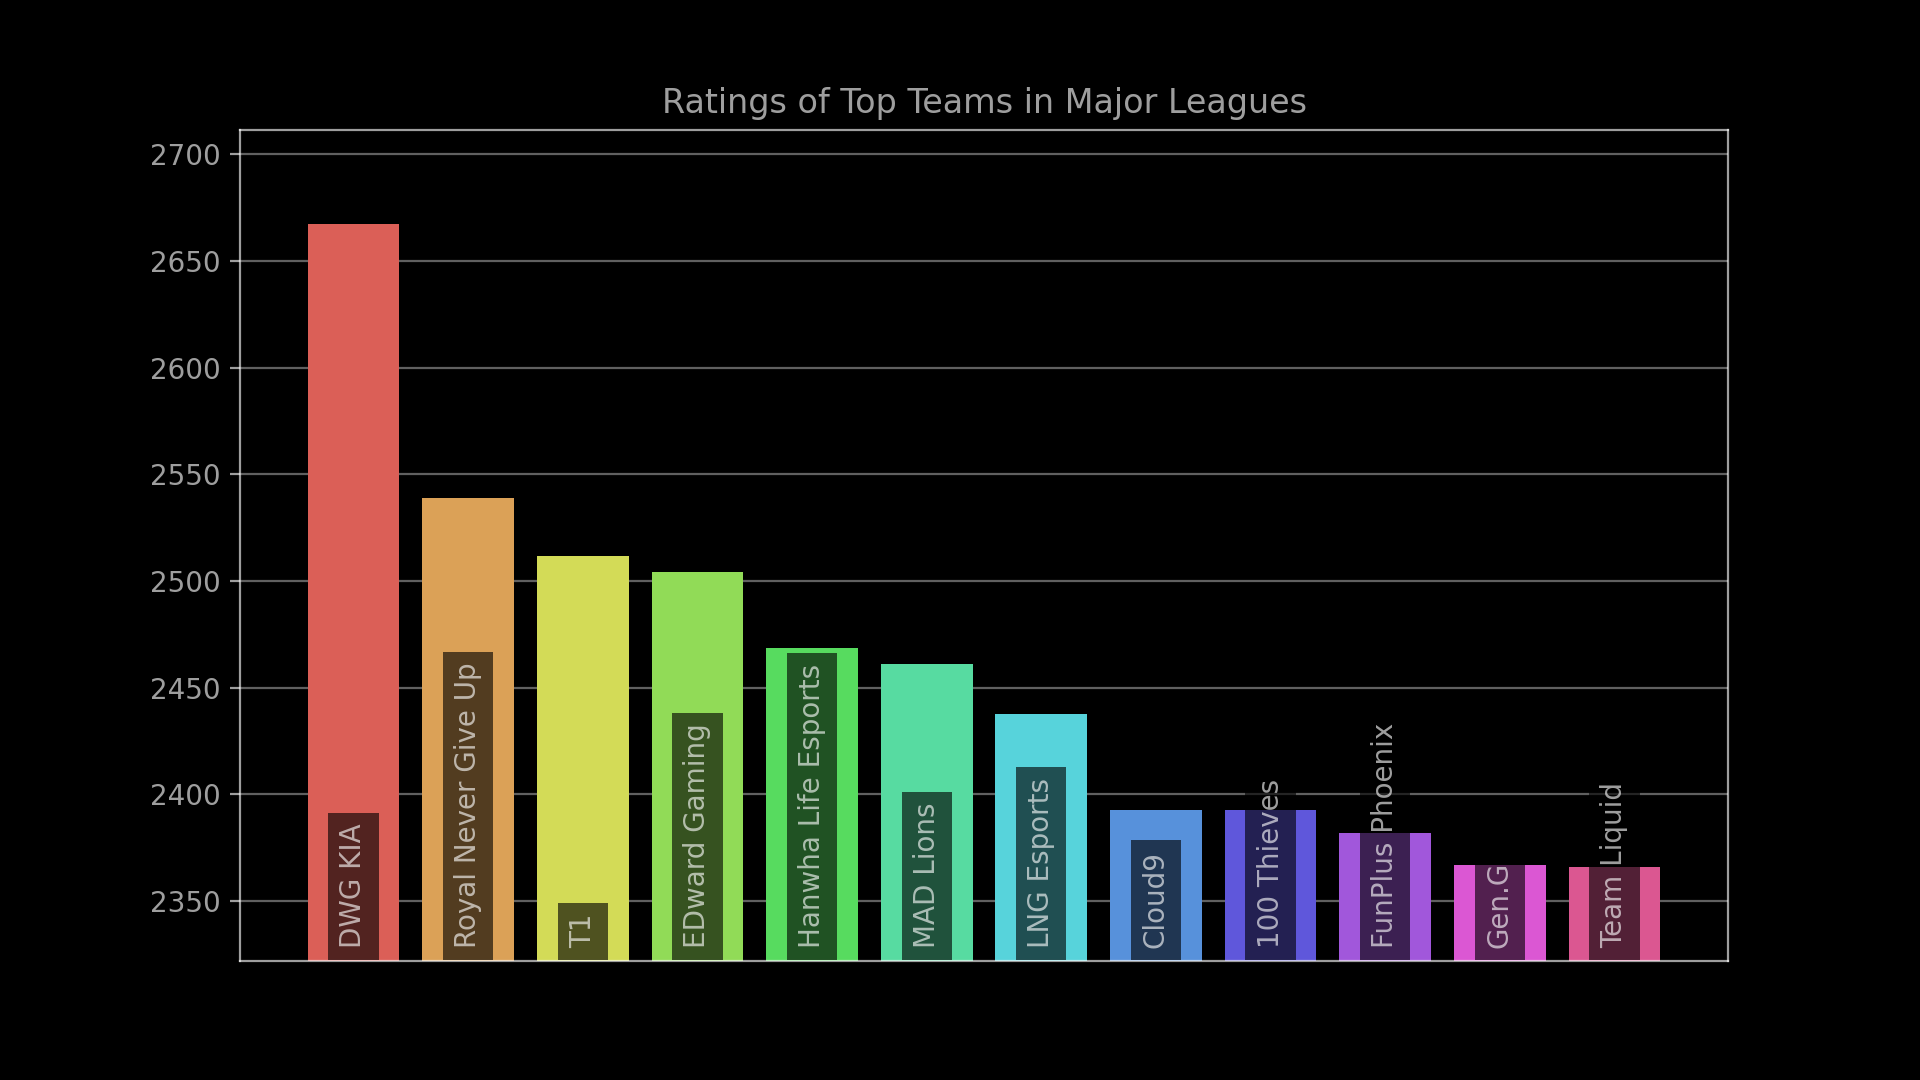
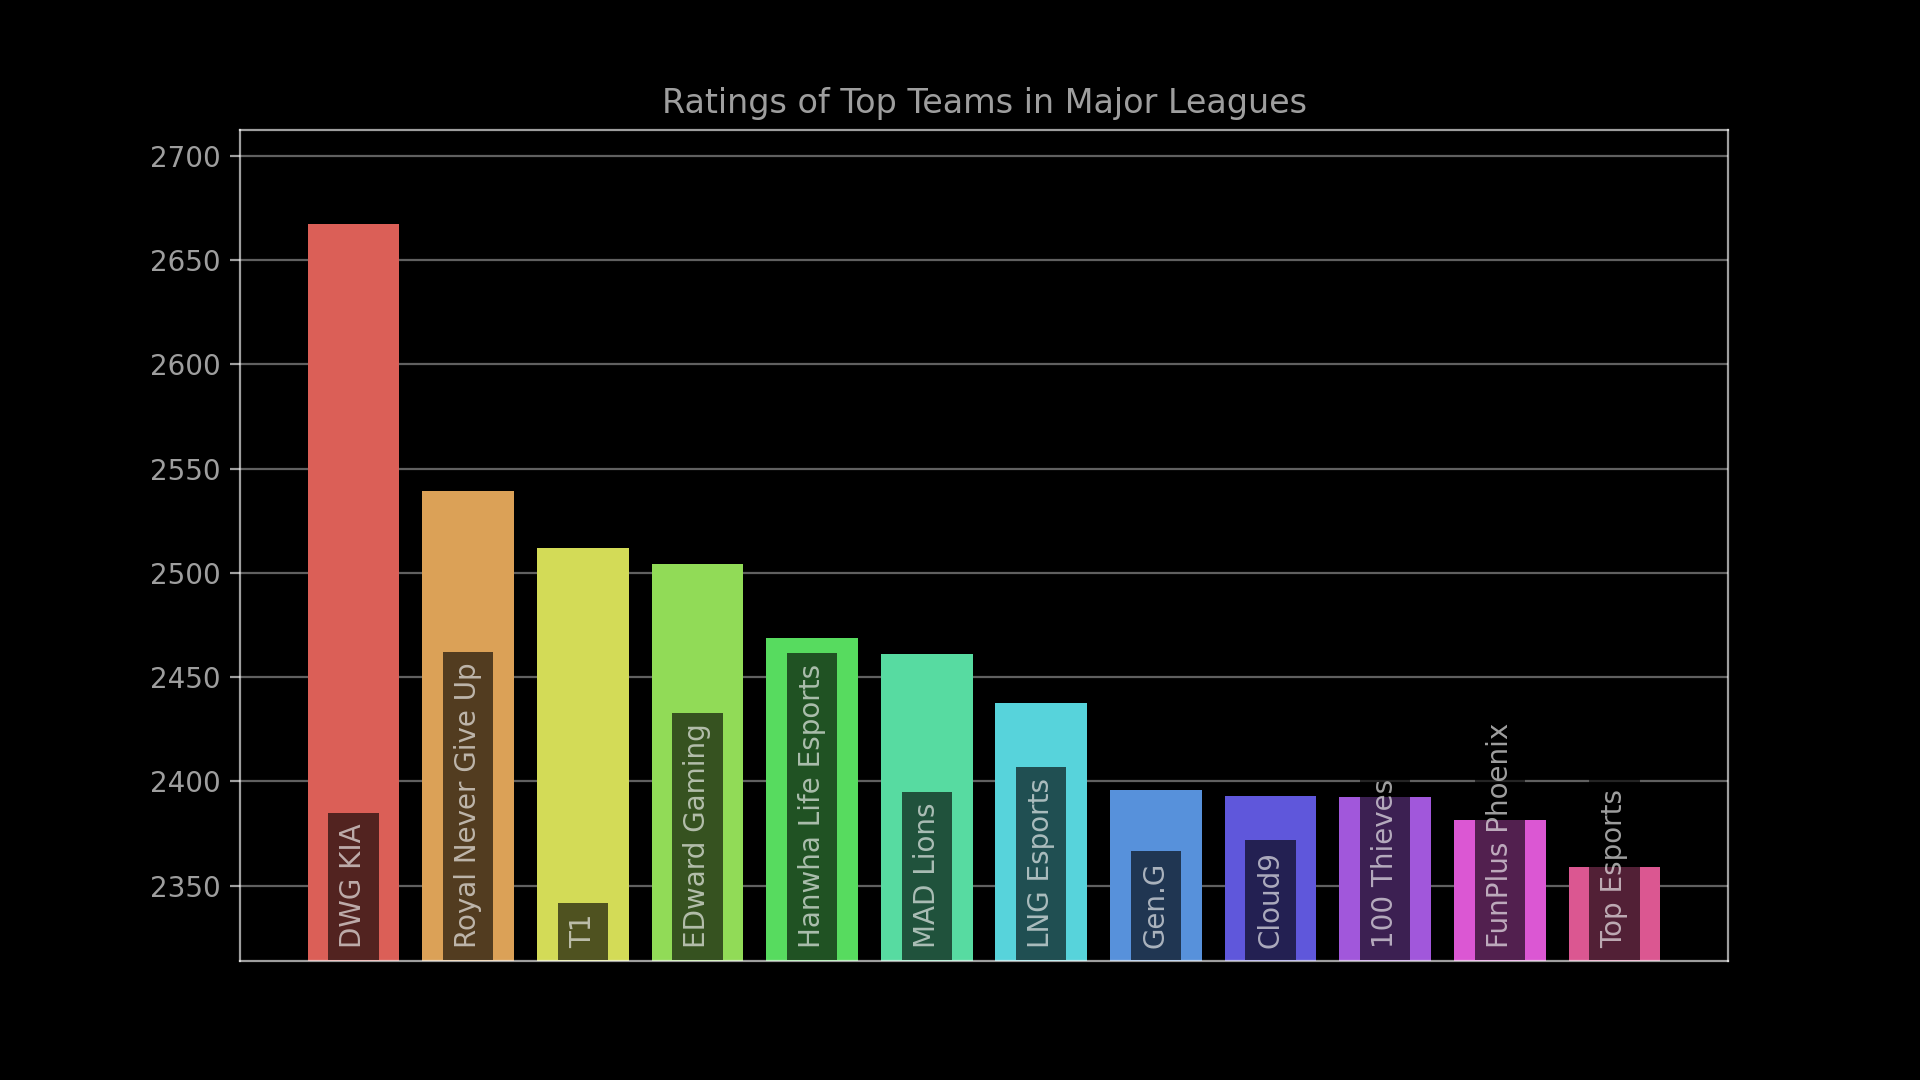
Update rating charts for 2021-10-18 19:00:00.

diff --git a/index.html b/index.html
@@ -84,14 +84,14 @@
             <tr><td style="text-align: right">6</td><td class="name">PSG Talon</td><td class="league" style="text-align: center">PCS</td><td class="rating" style="text-align: center">2461.9</td><td class="diff" style="text-align: center; white-space: nowrap"><span style="color: #F44336">&minus;18.7</span></td></tr>
             <tr><td style="text-align: right">7</td><td class="name">MAD Lions</td><td class="league" style="text-align: center">LEC</td><td class="rating" style="text-align: center">2461.1</td><td class="diff" style="text-align: center; white-space: nowrap"><span style="color: #F44336">&minus;0.8</span></td></tr>
             <tr><td style="text-align: right">8</td><td class="name">LNG Esports</td><td class="league" style="text-align: center">LPL</td><td class="rating" style="text-align: center">2437.7</td><td class="diff" style="text-align: center; white-space: nowrap"><span style="color: #F44336">&minus;5.9</span></td></tr>
-            <tr><td style="text-align: right">9</td><td class="name">Cloud9</td><td class="league" style="text-align: center">LCS</td><td class="rating" style="text-align: center">2392.9</td><td class="diff" style="text-align: center; white-space: nowrap"><span style="color: #4CAF50">&plus;46.9</span></td></tr>
-            <tr><td style="text-align: right">10</td><td class="name">100 Thieves</td><td class="league" style="text-align: center">LCS</td><td class="rating" style="text-align: center">2392.5</td><td class="diff" style="text-align: center; white-space: nowrap"><span style="color: #4CAF50">&plus;31.1</span></td></tr>
-            <tr><td style="text-align: right">11</td><td class="name">FunPlus Phoenix</td><td class="league" style="text-align: center">LPL</td><td class="rating" style="text-align: center">2381.7</td><td class="diff" style="text-align: center; white-space: nowrap"><span style="color: #F44336">&minus;125.8</span></td></tr>
-            <tr><td style="text-align: right">12</td><td class="name">Gen.G</td><td class="league" style="text-align: center">LCK</td><td class="rating" style="text-align: center">2367.0</td><td class="diff" style="text-align: center; white-space: nowrap"><span style="color: #F44336">&minus;7.9</span></td></tr>
-            <tr><td style="text-align: right">13</td><td class="name">Team Liquid</td><td class="league" style="text-align: center">LCS</td><td class="rating" style="text-align: center">2365.9</td><td class="diff" style="text-align: center; white-space: nowrap"><span style="color: #4CAF50">&plus;12.1</span></td></tr>
-            <tr><td style="text-align: right">14</td><td class="name">Top Esports</td><td class="league" style="text-align: center">LPL</td><td class="rating" style="text-align: center">2358.8</td><td class="diff" style="text-align: center; white-space: nowrap"></td></tr>
-            <tr><td style="text-align: right">15</td><td class="name">Suning</td><td class="league" style="text-align: center">LPL</td><td class="rating" style="text-align: center">2354.8</td><td class="diff" style="text-align: center; white-space: nowrap"></td></tr>
-            <tr><td style="text-align: right">16</td><td class="name">Team WE</td><td class="league" style="text-align: center">LPL</td><td class="rating" style="text-align: center">2340.1</td><td class="diff" style="text-align: center; white-space: nowrap"></td></tr>
+            <tr><td style="text-align: right">9</td><td class="name">Gen.G</td><td class="league" style="text-align: center">LCK</td><td class="rating" style="text-align: center">2395.7</td><td class="diff" style="text-align: center; white-space: nowrap"><span style="color: #4CAF50">&plus;20.8</span></td></tr>
+            <tr><td style="text-align: right">10</td><td class="name">Cloud9</td><td class="league" style="text-align: center">LCS</td><td class="rating" style="text-align: center">2392.9</td><td class="diff" style="text-align: center; white-space: nowrap"><span style="color: #4CAF50">&plus;46.9</span></td></tr>
+            <tr><td style="text-align: right">11</td><td class="name">100 Thieves</td><td class="league" style="text-align: center">LCS</td><td class="rating" style="text-align: center">2392.5</td><td class="diff" style="text-align: center; white-space: nowrap"><span style="color: #4CAF50">&plus;31.1</span></td></tr>
+            <tr><td style="text-align: right">12</td><td class="name">FunPlus Phoenix</td><td class="league" style="text-align: center">LPL</td><td class="rating" style="text-align: center">2381.7</td><td class="diff" style="text-align: center; white-space: nowrap"><span style="color: #F44336">&minus;125.8</span></td></tr>
+            <tr><td style="text-align: right">13</td><td class="name">Top Esports</td><td class="league" style="text-align: center">LPL</td><td class="rating" style="text-align: center">2358.8</td><td class="diff" style="text-align: center; white-space: nowrap"></td></tr>
+            <tr><td style="text-align: right">14</td><td class="name">Suning</td><td class="league" style="text-align: center">LPL</td><td class="rating" style="text-align: center">2354.8</td><td class="diff" style="text-align: center; white-space: nowrap"></td></tr>
+            <tr><td style="text-align: right">15</td><td class="name">Team WE</td><td class="league" style="text-align: center">LPL</td><td class="rating" style="text-align: center">2340.1</td><td class="diff" style="text-align: center; white-space: nowrap"></td></tr>
+            <tr><td style="text-align: right">16</td><td class="name">Team Liquid</td><td class="league" style="text-align: center">LCS</td><td class="rating" style="text-align: center">2338.4</td><td class="diff" style="text-align: center; white-space: nowrap"><span style="color: #F44336">&minus;15.4</span></td></tr>
             <tr><td style="text-align: right">17</td><td class="name">Rogue </td><td class="league" style="text-align: center">LEC</td><td class="rating" style="text-align: center">2330.7</td><td class="diff" style="text-align: center; white-space: nowrap"><span style="color: #F44336">&minus;12.4</span></td></tr>
             <tr><td style="text-align: right">18</td><td class="name">Bilibili Gaming</td><td class="league" style="text-align: center">LPL</td><td class="rating" style="text-align: center">2318.9</td><td class="diff" style="text-align: center; white-space: nowrap"></td></tr>
             <tr><td style="text-align: right">19</td><td class="name">G2 Esports</td><td class="league" style="text-align: center">LEC</td><td class="rating" style="text-align: center">2313.3</td><td class="diff" style="text-align: center; white-space: nowrap"></td></tr>

diff --git a/assets/js/chart-config.js b/assets/js/chart-config.js
@@ -3,10 +3,10 @@ const MONTH_ABBREVIATIONS = ["Jan", "Feb", "Mar", "Apr", "May", "Jun", "Jul", "A
 const topChartConfig = {
     type: "bar",
     data: {
-        labels: ['DWG KIA', 'Royal Never Give Up', 'T1', 'EDward Gaming', 'Hanwha Life Esports', 'MAD Lions', 'LNG Esports', 'Cloud9', '100 Thieves', 'FunPlus Phoenix', 'Gen.G', 'Team Liquid'],
+        labels: ['DWG KIA', 'Royal Never Give Up', 'T1', 'EDward Gaming', 'Hanwha Life Esports', 'MAD Lions', 'LNG Esports', 'Gen.G', 'Cloud9', '100 Thieves', 'FunPlus Phoenix', 'Top Esports'],
         datasets: [{
             backgroundColor: ['#dc5f57', '#dca157', '#d4dc57', '#91dc57', '#57dc5f', '#57dca1', '#57d4dc', '#5791dc', '#5f57dc', '#a157dc', '#dc57d4', '#dc5791'],
-            data: [2667.475752135994, 2539.102646002875, 2511.6879446870657, 2504.142926627319, 2468.5615321778664, 2461.079009473322, 2437.7186784216165, 2392.8668374178997, 2392.5403855259237, 2381.7010883286844, 2367.0065099949097, 2365.888617741415],
+            data: [2667.475752135994, 2539.102646002875, 2511.6879446870657, 2504.142926627319, 2468.5615321778664, 2461.079009473322, 2437.7186784216165, 2395.683646896536, 2392.8668374178997, 2392.5403855259237, 2381.7010883286844, 2358.8275642289427],
             label: "Rating Points"
         }]
     },
@@ -34,8 +34,8 @@ const topChartConfig = {
                 }
             },
             y: {
-                max: 2712,
-                min: 2322
+                max: 2713,
+                min: 2314
             }
         }
     }

diff --git a/README.md b/README.md
@@ -52,14 +52,14 @@ confidence interval of the rating.
 | 5 | Hanwha Life Esports | 2468.6 | 61.2 |
 | 6 | MAD Lions | 2461.1 | 76.4 |
 | 7 | LNG Esports | 2437.7 | 67.6 |
-| 8 | Cloud9 | 2392.9 | 60.3 |
-| 9 | 100 Thieves | 2392.5 | 74.4 |
-| 10 | FunPlus Phoenix | 2381.7 | 72.5 |
-| 11 | Gen.G | 2367.0 | 75.5 |
-| 12 | Team Liquid | 2365.9 | 75.5 |
-| 13 | Top Esports | 2358.8 | 71.2 |
-| 14 | Suning | 2354.8 | 69.8 |
-| 15 | Team WE | 2340.1 | 61.8 |
+| 8 | Gen.G | 2395.7 | 72.4 |
+| 9 | Cloud9 | 2392.9 | 60.3 |
+| 10 | 100 Thieves | 2392.5 | 74.4 |
+| 11 | FunPlus Phoenix | 2381.7 | 72.5 |
+| 12 | Top Esports | 2358.8 | 71.2 |
+| 13 | Suning | 2354.8 | 69.8 |
+| 14 | Team WE | 2340.1 | 61.8 |
+| 15 | Team Liquid | 2338.4 | 72.4 |
 | 16 | Rogue (European Team) | 2330.7 | 73.6 |
 | 17 | Bilibili Gaming | 2318.9 | 73.6 |
 | 18 | G2 Esports | 2313.3 | 79.1 |
